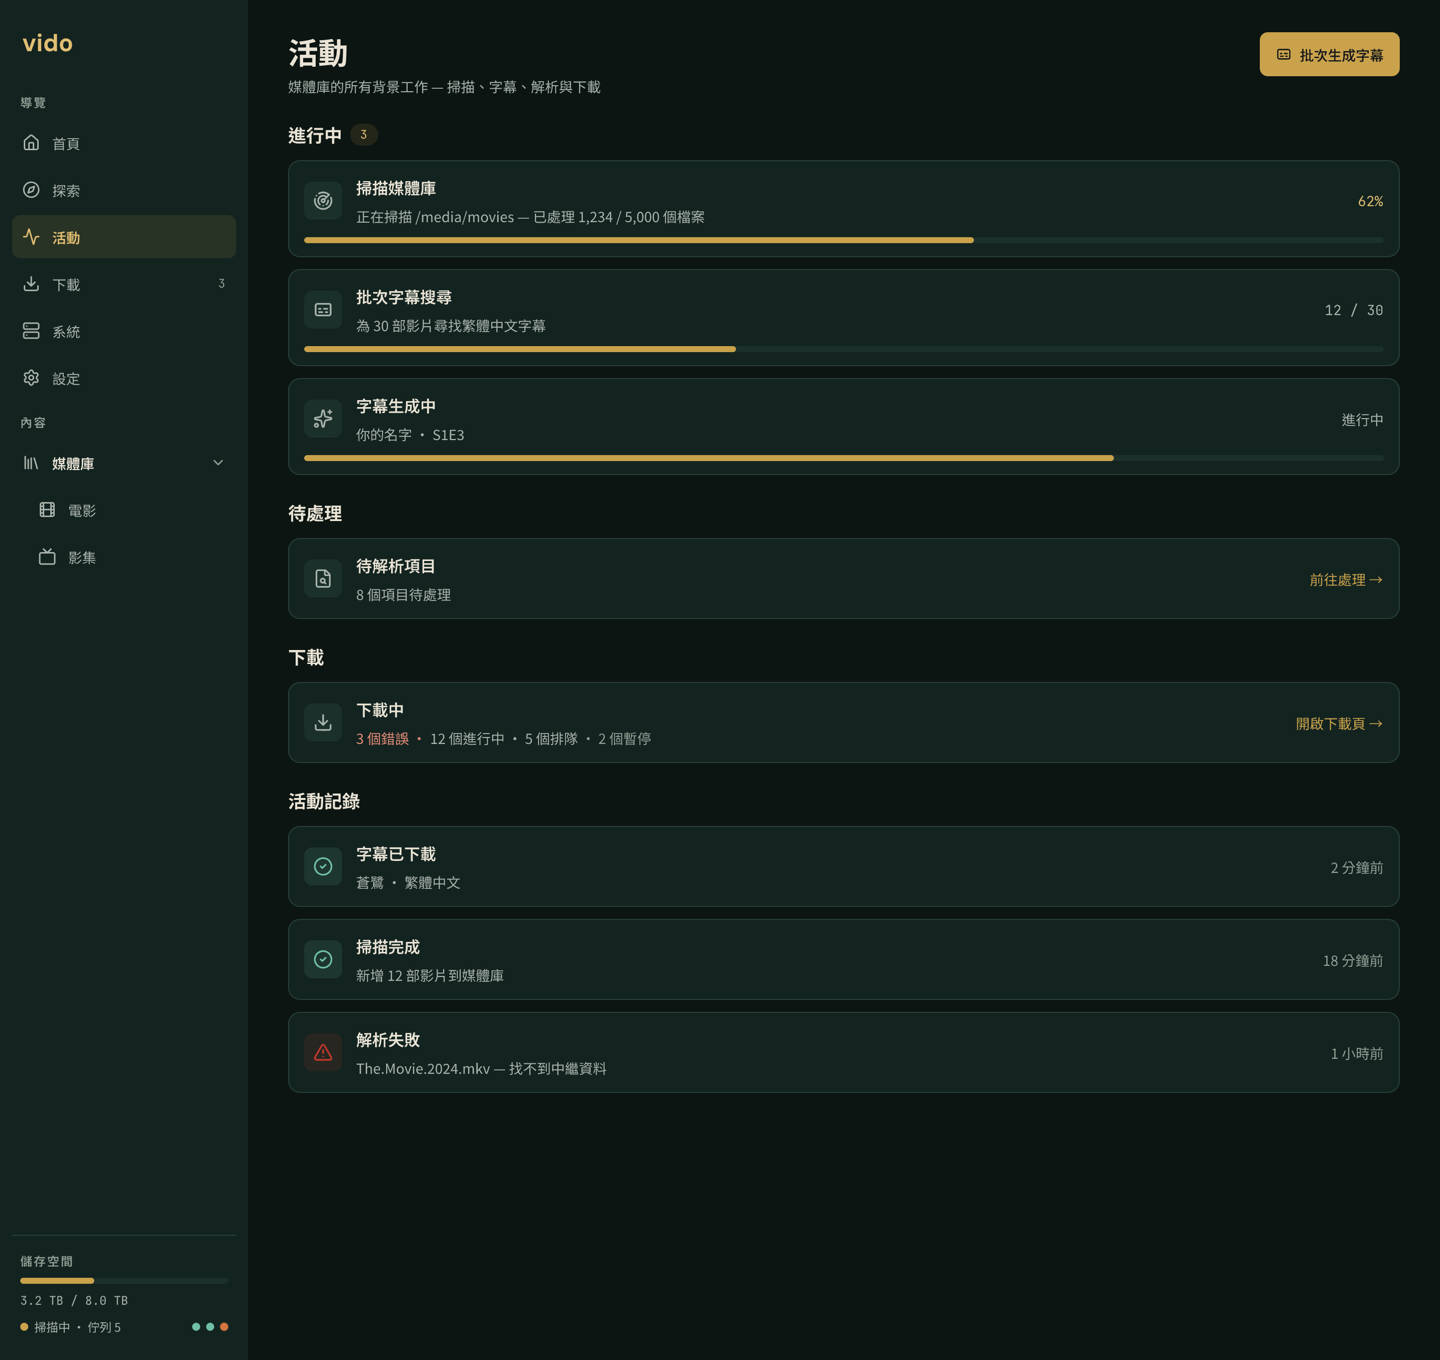
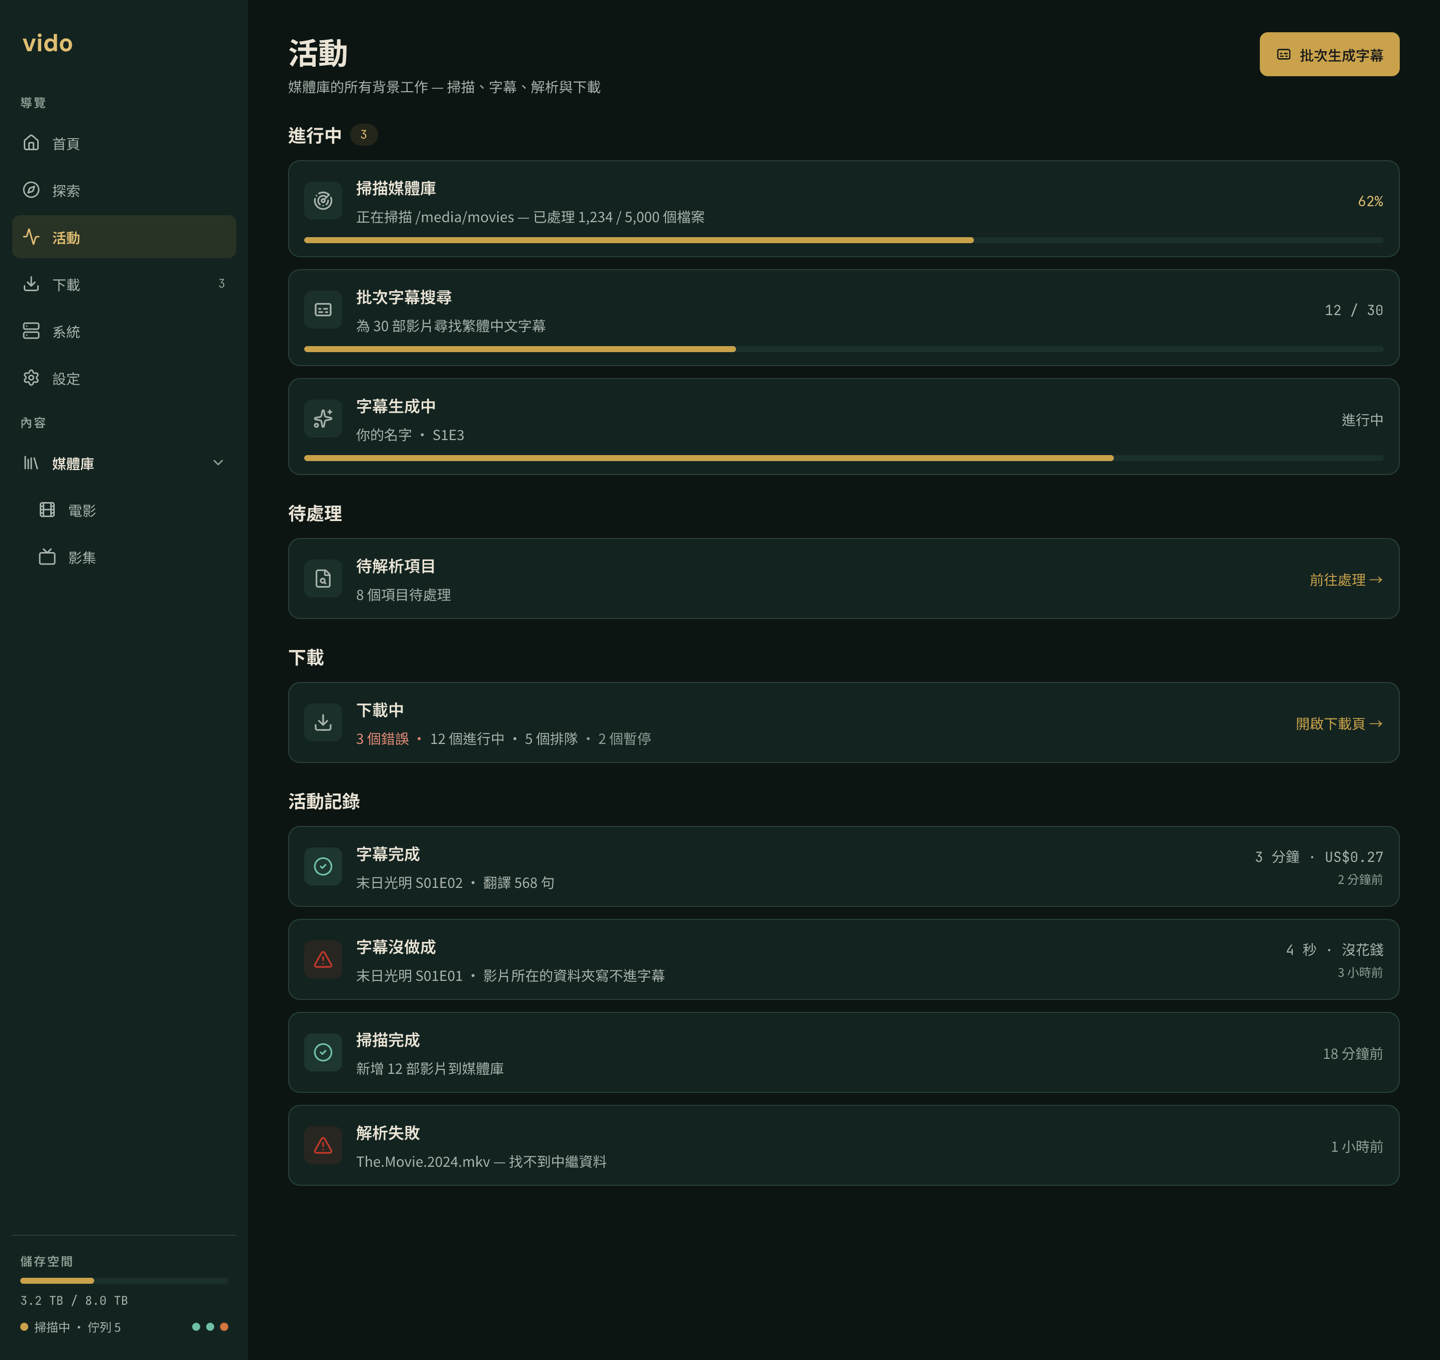
feat(activity): 活動記錄每一筆字幕生成都寫出花了多久、花了多少錢（設計稿） (#819)
原本會怎樣：
  字幕生成花了多久有記在資料庫，但沒有任何畫面顯示；活動記錄只放解析事件，
  設計稿裡的字幕列還是 v1 的「字幕已下載／蒼鷺」。
改成怎樣：
  - 活動記錄的字幕列：「字幕完成／末日光明 S01E02 · 翻譯 568 句」，
    右側寫「3 分鐘 · US$0.27」＋「2 分鐘前」。
  - 加一列失敗的例子：「字幕沒做成」，右側「4 秒 · 沒花錢」。
  - 手機：右側只留時間，花多久・花多少錢移到說明下一行，不把說明擠窄。
  - 規格說明 spec-note-k-run-time 寫下時間與錢的寫法。
  只改設計稿，程式碼另開 disc-2026-10-activity-subtitle-run-time。
怎麼確定：
  Sally 用 Pencil MCP 唯讀複審兩輪：文案逐字對、全部用變數、沒有新的裁切；
  check-design-refs.py 通過；只有 k1-d.png 變（k1-m.png 位元相同）。

Claude-Session: https://claude.ai/code/session_01TZUND5ZxEwKVZF3Ze2AcEd

diff --git a/_bmad-output/implementation-artifacts/disc-2026-10-activity-subtitle-run-time-design.md b/_bmad-output/implementation-artifacts/disc-2026-10-activity-subtitle-run-time-design.md
@@ -1,6 +1,6 @@
 # Disc：活動記錄每一筆字幕生成都寫出「花了多久、花了多少錢」（設計稿）
 
-Status: ready-for-pen
+Status: done
 
 **Source:** 2026-10-19 Alexyu：「目前生成出來的字幕只有在活動會看到本月 AI 花費，但是字幕生成花了多少時間有地方紀錄嗎？」
 
@@ -102,4 +102,10 @@ Status: ready-for-pen
 
 ## Dev Agent Record
 
-（待 Alexyu 跑完 inline agent、Sally 複審後填寫。）
+**2026-10-19 Alexyu 跑兩輪 inline agent；Sally MCP 唯讀複審通過。**
+
+- 第一輪：桌機字幕完成列、失敗列、規格說明都畫好；但失敗列右側沒改到（複製出來的列保留成功列的文字），手機右側兩行把說明擠到 131px → 第二輪修正（見上）。
+- 第二輪後逐字核對：桌機 `LndN2`「3 分鐘 · US$0.27／2 分鐘前」、`EVrLx`「4 秒 · 沒花錢／3 小時前」；手機 `JLTBV`、`akt4i` 右側只剩相對時間，`rowMeta` 在說明下一行（說明寬 214px）；`XYUmV` 最後一句已改。
+- 全部用變數；`ctx.problems` 只有手機 `sec-下載`、`sec-活動記錄` 原本就有的裁切。
+- **追認：** 手機 `textCol` 是整段換掉重建（Pencil 不讓插節點進實例），`rowTitle` 的 `fontWeight: "600"` 照元件原樣——元件本身就寫死 600，沒有對應變數，不算新增寫死值。
+- 截圖：只有 `k1-d.png` 變（`k1-m.png` 位元相同，手機這段在畫面外）；`check-design-refs.py` 通過（385 個檔頭）。
